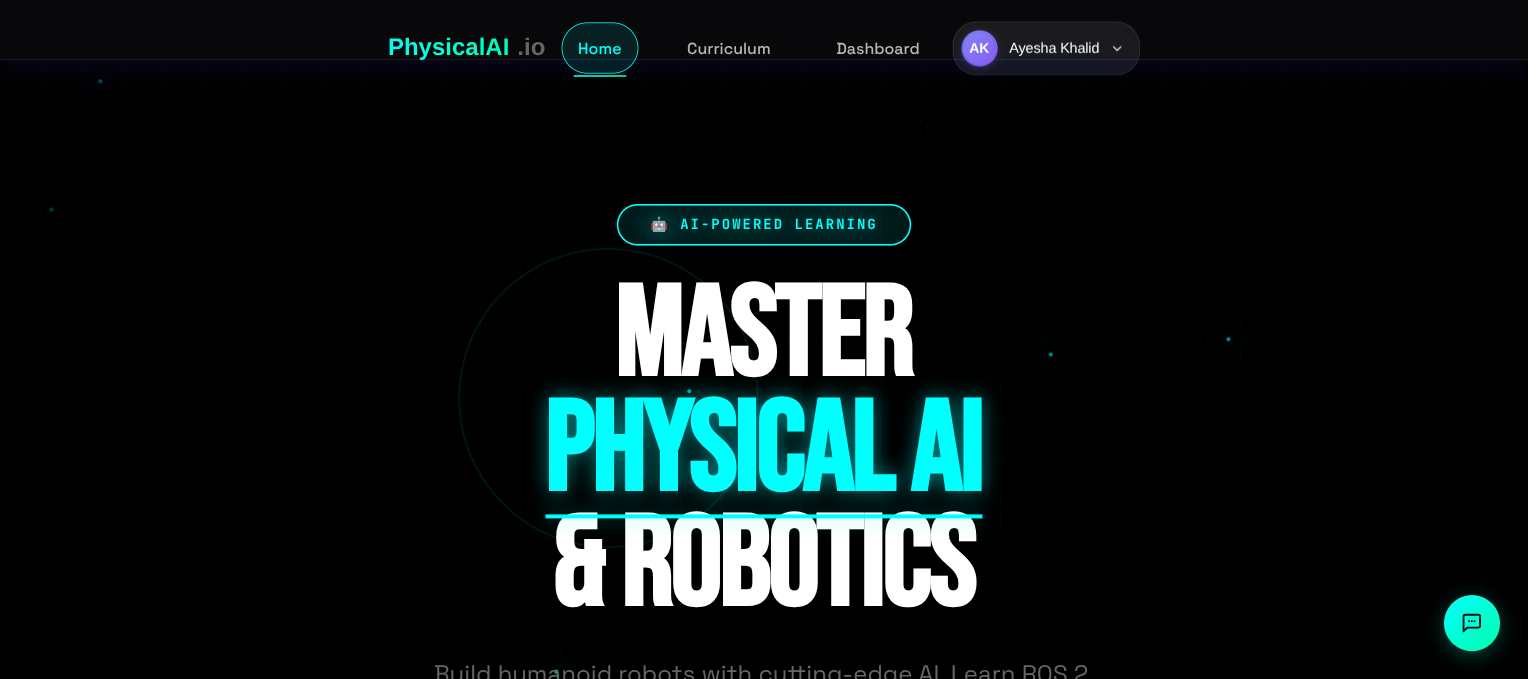
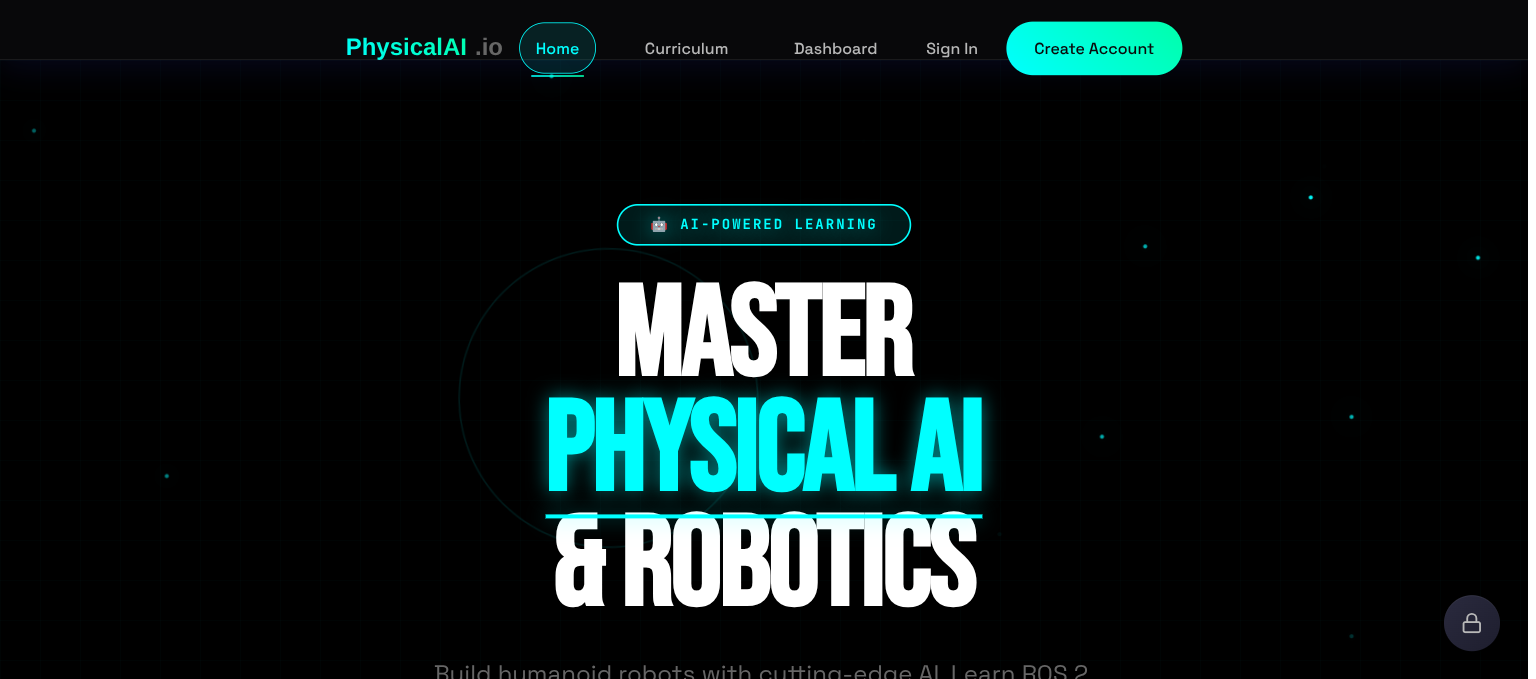
fix: fix signup 404 and nav active links by using Docusaurus Link in Button component
🤖 Generated with [Claude Code](https://claude.com/claude-code)

Changed region(s): [[0.2188, 0.0309, 0.7812, 0.1237], [0.9375, 0.866, 1.0, 0.9897]]

diff --git a/book/src/components/ui/Button.tsx b/book/src/components/ui/Button.tsx
@@ -1,5 +1,6 @@
 import React from 'react';
 import { motion } from 'framer-motion';
+import DocusaurusLink from '@docusaurus/Link';
 
 export interface ButtonProps {
   children: React.ReactNode;
@@ -61,22 +62,41 @@ export const Button: React.FC<ButtonProps> = ({
   };
 
   if (href) {
-    // Render as anchor for navigation
+    const isExternal = href.startsWith('http://') || href.startsWith('https://') || href.startsWith('//');
+    if (isExternal) {
+      // Raw anchor for external links
+      return (
+        <motion.a
+          href={href}
+          target={target}
+          rel={rel}
+          className={baseClasses}
+          onClick={onClick as React.MouseEventHandler<HTMLAnchorElement>}
+          {...motionProps}
+        >
+          <span className="flex items-center justify-center gap-2">
+            {startIcon && <span>{startIcon}</span>}
+            {children}
+            {endIcon && <span>{endIcon}</span>}
+          </span>
+        </motion.a>
+      );
+    }
+    // Use Docusaurus Link for internal navigation — handles baseUrl automatically
     return (
-      <motion.a
+      <DocusaurusLink
         href={href}
         target={target}
         rel={rel}
         className={baseClasses}
         onClick={onClick as React.MouseEventHandler<HTMLAnchorElement>}
-        {...motionProps}
       >
         <span className="flex items-center justify-center gap-2">
           {startIcon && <span>{startIcon}</span>}
           {children}
           {endIcon && <span>{endIcon}</span>}
         </span>
-      </motion.a>
+      </DocusaurusLink>
     );
   }
 

diff --git a/book/src/components/Navigation/FuturisticNavbar.tsx b/book/src/components/Navigation/FuturisticNavbar.tsx
@@ -18,6 +18,8 @@ function FuturisticNavbarInner() {
   // Auth hook called at top-level — no hooks-in-callbacks violation
   const { useAuth } = require('../../context/AuthContext') as typeof import('../../context/AuthContext');
   const { isAuthenticated, user, signOut } = useAuth();
+  const { siteConfig } = useDocusaurusContext();
+  const baseUrl = siteConfig.baseUrl.replace(/\/$/, ''); // e.g. '/humanoid-ai-studio'
 
   // Lazy import UserMenu to keep it client-only
   const { UserMenu } = require('../Auth/UserMenu') as typeof import('../Auth/UserMenu');
@@ -36,8 +38,9 @@ function FuturisticNavbarInner() {
 
   const isActive = (href: string) => {
     if (href.startsWith('#')) return false;
-    if (href === '/') return location.pathname === '/humanoid-ai-studio/' || location.pathname === '/';
-    return location.pathname === href || location.pathname.startsWith(href + '/');
+    if (href === '/') return location.pathname === baseUrl + '/' || location.pathname === '/';
+    const fullPath = baseUrl + href;
+    return location.pathname === fullPath || location.pathname.startsWith(fullPath + '/');
   };
 
   const scrollToSection = (href: string) => {

diff --git a/history/prompts/general/021-fix-signup-404-and-nav-links.general.prompt.md b/history/prompts/general/021-fix-signup-404-and-nav-links.general.prompt.md
@@ -1,0 +1,54 @@
+---
+id: 021
+title: Fix signup 404 and nav active links
+stage: general
+date: 2026-03-26
+surface: agent
+model: claude-sonnet-4-6
+feature: none
+branch: main
+user: ayeshakhalid
+command: fix signup 404 and page linking issues
+labels: ["bug-fix","routing","docusaurus","navigation"]
+links:
+  spec: null
+  ticket: null
+  adr: null
+  pr: null
+files:
+  - book/src/components/ui/Button.tsx
+  - book/src/components/Navigation/FuturisticNavbar.tsx
+tests:
+  - null
+---
+
+## Prompt
+
+signup:1  Failed to load resource: the server responded with a status of 404 () when i click on the create account it gives me this error which is shown on console and the linking of my pages is also not correct fix these issues
+
+## Response snapshot
+
+Diagnosed two bugs:
+
+1. **Button.tsx 404**: `Button` component rendered internal links with a raw `<motion.a href="/auth/signup">`. This bypasses Docusaurus's `Link` component, so the `baseUrl` (`/humanoid-ai-studio/`) is never prepended. Clicking "Create Account" navigated to `/auth/signup` instead of `/humanoid-ai-studio/auth/signup`.
+
+   Fix: imported `@docusaurus/Link` and used it for internal hrefs (non-http), keeping the raw `motion.a` only for external links.
+
+2. **isActive() hardcoded path**: `FuturisticNavbar.tsx` had `location.pathname === '/humanoid-ai-studio/'` hardcoded and also compared `/chapters` against the actual path `/humanoid-ai-studio/chapters`, causing active link highlighting to never work.
+
+   Fix: used `useDocusaurusContext()` to get `siteConfig.baseUrl` dynamically and prepend it before comparing paths.
+
+## Outcome
+
+- ✅ Impact: "Create Account" button now correctly navigates to `/humanoid-ai-studio/auth/signup`; active nav links now highlight correctly
+- 🧪 Tests: none run — manual browser test required
+- 📁 Files: Button.tsx, FuturisticNavbar.tsx
+- 🔁 Next prompts: verify all other Button usages with href props work correctly; check mobile nav
+- 🧠 Reflection: Root cause was Button component not using Docusaurus Link — a common Docusaurus pitfall when wrapping with framer-motion
+
+## Evaluation notes (flywheel)
+
+- Failure modes observed: raw anchor tags in Docusaurus ignore baseUrl; isActive hardcoding breaks on any non-root deployment
+- Graders run and results (PASS/FAIL): none
+- Prompt variant (if applicable): none
+- Next experiment (smallest change to try): add a `useBaseUrl` hook wrapper to Button instead of @docusaurus/Link if framer-motion animation is needed

diff --git a/history/prompts/general/019-fix-backend-railway-deployment-crash.general.prompt.md b/history/prompts/general/019-fix-backend-railway-deployment-crash.general.prompt.md
@@ -1,0 +1,53 @@
+---
+id: "019"
+title: Fix Backend Railway Deployment Crash
+stage: general
+date: 2026-03-26
+surface: agent
+model: claude-sonnet-4-6
+feature: none
+branch: main
+user: ayeshakhalid
+command: "fix the backend deployment issue only"
+labels: ["railway","deployment","docker","qdrant","devops","crash-fix"]
+links:
+  spec: null
+  ticket: null
+  adr: null
+  pr: null
+files:
+  - backend/Dockerfile
+tests:
+  - Railway deployment: Active (b089a5d8)
+---
+
+## Prompt
+
+fix the backend deployment issue only — backend was showing CRASHED on Railway after Dockerfile was committed.
+
+## Response snapshot
+
+Diagnosed two sequential issues:
+
+1. **Runtime crash (QDRANT_API_KEY missing):** `src/config.py:78` declares `QDRANT_API_KEY: str = Field(...)` as required. Pydantic validation failed at startup because the variable was never set in Railway. App exited immediately → CRASHED status.
+
+2. **Image size fix already in place:** `backend/Dockerfile` (committed in same session) replaced Nixpacks (5.7GB) with `python:3.11-slim` + CPU-only PyTorch. Build time: 112.48s, image accepted by Railway.
+
+Fix applied:
+- Retrieved Qdrant API key from user (new key created from Qdrant Cloud dashboard)
+- Set via `railway variables set QDRANT_API_KEY=... --service backend --environment production`
+- Railway auto-redeployed, build succeeded, service went Online
+
+## Outcome
+
+- ✅ Impact: Backend service Online at backend-production-52d2.up.railway.app
+- ✅ Auth server: Online at auth-server-production-21f2.up.railway.app
+- ✅ Frontend: Live on GitHub Pages
+- 📁 Files: backend/Dockerfile (committed)
+- 🔁 Next: Update OAuth redirect URIs in Google/GitHub consoles with production auth-server URL; run smoke tests on /health endpoints
+
+## Evaluation notes (flywheel)
+
+- Failure modes observed: Pydantic required-field crash on missing env var; Qdrant API key not surfaced during initial Railway setup
+- Graders run and results: n/a
+- Next experiment: Add a startup health-check endpoint that lists which required env vars are missing, to surface config errors before process exit
